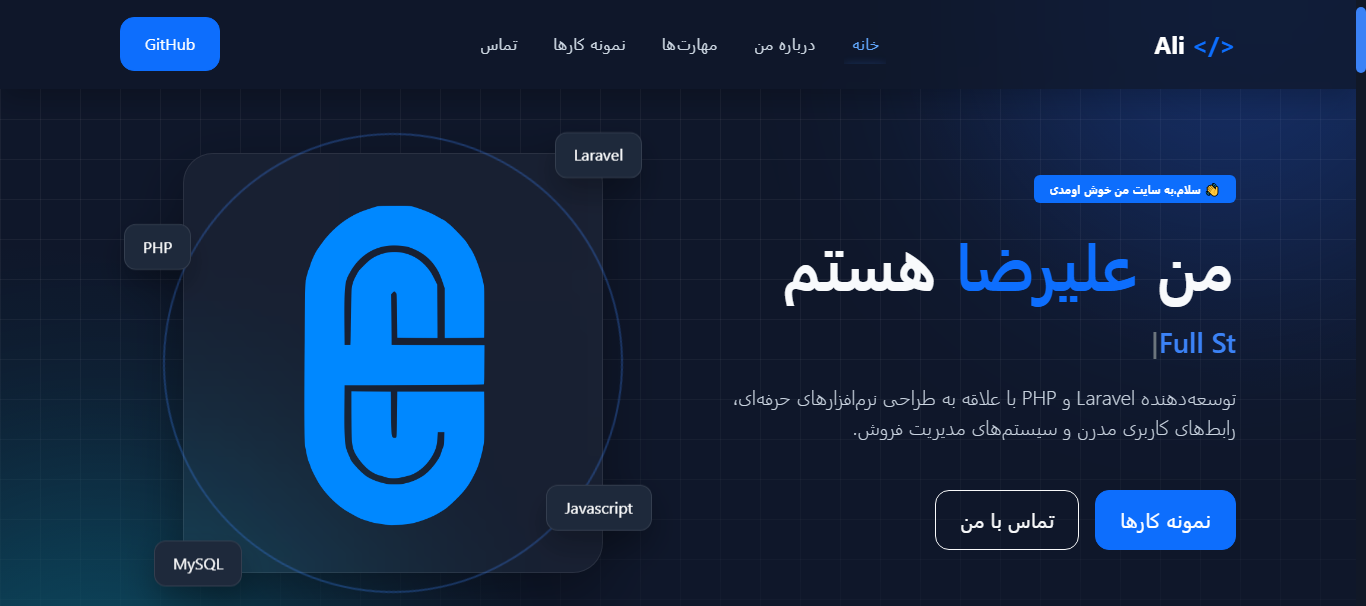
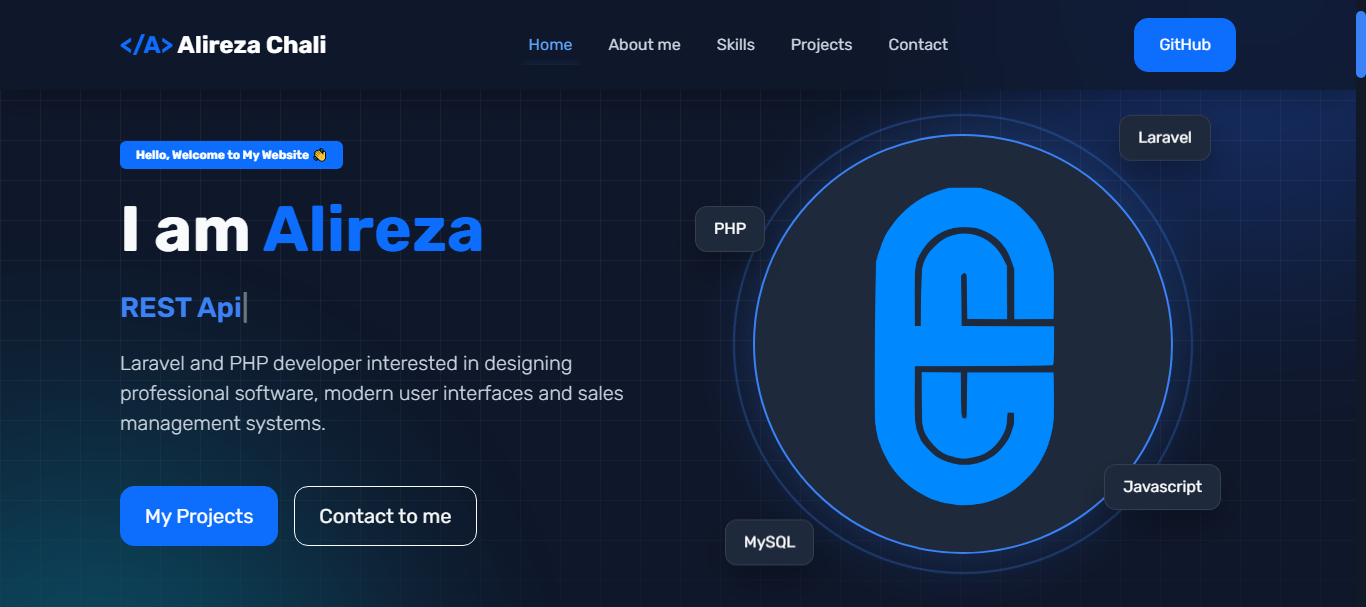
درج مشخصات پروژه ها

diff --git a/index.html b/index.html
@@ -496,7 +496,7 @@
 
                             </div>
 
-                            <small>Sales Management System</small>
+                            <small>Sales and warehousing management system</small>
 
                         </div>
 
@@ -515,14 +515,20 @@
                             <div class="tags">
 
                                 <span>Laravel</span>
-                                <span>Javascript</span>
+                                <span>PHP</span>
+                                <span>JS</span>
                                 <span>MySQL</span>
+                                <span>CSS</span>
+                                <span>BootStrap</span>
 
                             </div>
 
                             <p class="mt-3">
 
-                                Description
+                                <h6>Features:</h6>
+                                The possibility of deploying and running on a private or public network.<br>
+                                Role assignment for users.<br>
+                                Sale by barcode scanner.<br>
 
                             </p>
 
@@ -580,8 +586,10 @@
                             <div class="tags">
 
                                 <span>Html</span>
-                                <span>Javascript</span>
-                                <span>Bootstrap</span>
+                                <span>JS</span>
+                                <span>CSS</span>
+                                <span>BootStrap</span>
+                                <span>Github Page</span>
 
                             </div>
 
